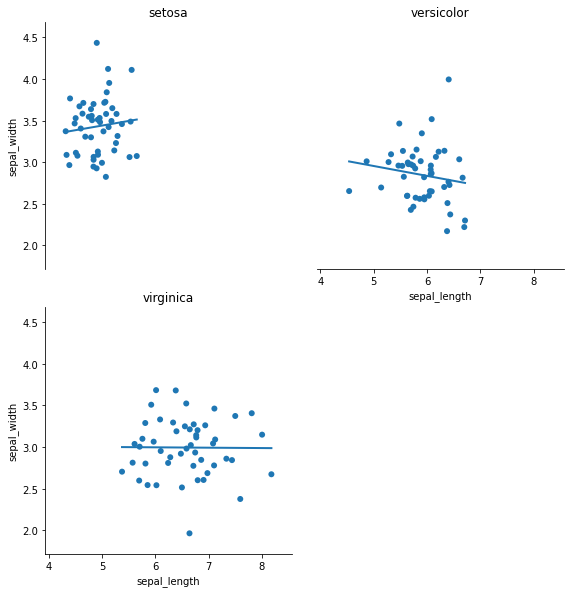
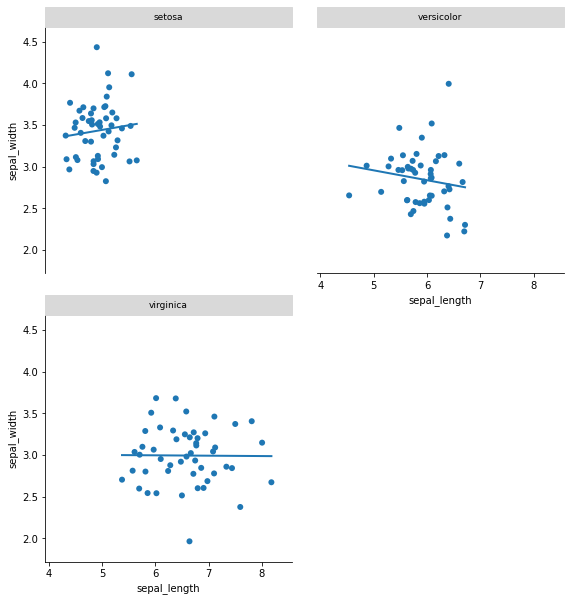
Fix four ggplot2 visual fidelity issues
1. Grid: white major+minor gridlines on beige via matplotlib hook
   (Bokeh gridstyle doesn't transfer to matplotlib backend)
2. Italic: axis labels now non-italic via _fix_label_style hook
3. facet_grid: column strips at top, row strips on right (was
   per-panel "row: val | col: val" titles)
4. Strips: full-width gray rectangles, not text highlights

All hooks are cross-backend (matplotlib + Bokeh). Theme hooks
accumulate on ggplot._hooks and are merged at render time so
they don't clobber each other.

https://claude.ai/code/session_01SmF4TLhsWWy5K2WYChHN7t

diff --git a/ggviews/facets.py b/ggviews/facets.py
@@ -13,6 +13,87 @@ import warnings
 import re
 
 
+# ---------------------------------------------------------------------------
+# Cross-backend hook helpers
+# ---------------------------------------------------------------------------
+
+def _fix_label_style(plot, element):
+    """Hook: set axis labels to non-italic (ggplot2 default) in both backends."""
+    # Matplotlib
+    ax = getattr(plot, 'handles', {}).get('axis')
+    if ax and hasattr(ax, 'transAxes'):
+        ax.xaxis.label.set_fontstyle('normal')
+        ax.yaxis.label.set_fontstyle('normal')
+        for lbl in ax.get_xticklabels() + ax.get_yticklabels():
+            lbl.set_fontstyle('normal')
+        return
+    # Bokeh: labels are normal style by default — nothing to do.
+
+
+def _make_strip_top(label_text):
+    """Return a hook that draws a ggplot2-style column strip at the top."""
+    def hook(plot, element):
+        # --- Matplotlib ---
+        ax = getattr(plot, 'handles', {}).get('axis')
+        if ax and hasattr(ax, 'transAxes'):
+            import matplotlib.patches as mpatches
+            rect = mpatches.FancyBboxPatch(
+                (0, 1.0), 1.0, 0.08, transform=ax.transAxes,
+                facecolor='#D9D9D9', edgecolor='#D9D9D9',
+                clip_on=False, zorder=10, boxstyle='square,pad=0',
+            )
+            ax.add_patch(rect)
+            ax.text(
+                0.5, 1.04, str(label_text), transform=ax.transAxes,
+                ha='center', va='center', fontsize=9,
+                fontweight='normal', fontstyle='normal', zorder=11,
+            )
+            return
+        # --- Bokeh ---
+        fig = getattr(plot, 'state', None)
+        if fig and hasattr(fig, 'title') and fig.title:
+            fig.title.text = str(label_text)
+            fig.title.background_fill_color = '#D9D9D9'
+            fig.title.background_fill_alpha = 1.0
+            fig.title.text_font_size = '10pt'
+            fig.title.text_font_style = 'normal'
+            fig.title.align = 'center'
+    return hook
+
+
+def _make_strip_right(label_text):
+    """Return a hook that draws a ggplot2-style row strip on the right."""
+    def hook(plot, element):
+        # --- Matplotlib ---
+        ax = getattr(plot, 'handles', {}).get('axis')
+        if ax and hasattr(ax, 'transAxes'):
+            import matplotlib.patches as mpatches
+            rect = mpatches.FancyBboxPatch(
+                (1.0, 0), 0.08, 1.0, transform=ax.transAxes,
+                facecolor='#D9D9D9', edgecolor='#D9D9D9',
+                clip_on=False, zorder=10, boxstyle='square,pad=0',
+            )
+            ax.add_patch(rect)
+            ax.text(
+                1.04, 0.5, str(label_text), transform=ax.transAxes,
+                ha='center', va='center', fontsize=9,
+                fontweight='normal', fontstyle='normal', rotation=270,
+                zorder=11,
+            )
+            return
+        # --- Bokeh ---  (append row label to existing title)
+        fig = getattr(plot, 'state', None)
+        if fig and hasattr(fig, 'title'):
+            # For Bokeh there's no native right-strip; we could use an
+            # annotation, but for now we skip (column strip already shown).
+            pass
+    return hook
+
+
+# ---------------------------------------------------------------------------
+# Facet base class
+# ---------------------------------------------------------------------------
+
 class Facet:
     """Base facet class"""
 
@@ -41,49 +122,41 @@ class Facet:
         else:
             return None, formula
 
-    @staticmethod
-    def _strip_hook(plot, element):
-        """Bokeh hook: style the panel title as a ggplot2-style strip label.
+    def _render_facet_panel(self, facet_data, ggplot_obj, hooks=None):
+        """Render a single facet panel.
 
-        Adds a gray background fill to the title text so it resembles
-        the colored strip bars in ggplot2 facets.
-        """
-        fig = plot.state
-        if hasattr(fig, 'title') and fig.title:
-            fig.title.background_fill_color = '#E5E5E5'
-            fig.title.background_fill_alpha = 1.0
-            fig.title.text_font_size = '10pt'
-            fig.title.text_font_style = 'normal'  # ggplot2 strips are not bold
-            fig.title.align = 'center'
-            # Add a little padding via border
-            if hasattr(fig.title, 'border_line_color'):
-                fig.title.border_line_color = '#CCCCCC'
-                fig.title.border_line_alpha = 0.5
-
-    def _render_facet_panel(self, facet_data, ggplot_obj, title):
-        """Render a single facet panel with the given subset of data.
-
-        Creates a copy of the ggplot object with filtered data and no faceting
-        to avoid recursion, then renders it and applies the facet title
-        styled as a ggplot2-style strip label.
+        Parameters
+        ----------
+        facet_data : DataFrame
+            Subset of data for this panel.
+        ggplot_obj : ggplot
+            Parent ggplot object (layers, aes, theme, etc.).
+        hooks : list[callable] or None
+            Hooks to apply to the rendered panel (strip labels, style fixes).
         """
         facet_ggplot = ggplot_obj._copy()
         facet_ggplot.data = facet_data
         facet_ggplot.facets = None  # prevent recursion
+        facet_ggplot._hooks = []   # clear — we merge manually below
 
         panel = facet_ggplot._render()
         if panel is not None:
-            # Reduce panel size for multi-panel layouts and add strip hook
+            # Merge theme hooks (e.g. essi grid) + facet hooks (strips, italic fix)
+            # into one list so a single .opts(hooks=...) call doesn't clobber anything.
+            all_hooks = list(getattr(ggplot_obj, '_hooks', [])) + (hooks or [])
+            opts_kw = {'title': '', 'hooks': all_hooks}
             try:
-                panel = panel.opts(
-                    title=str(title), width=350, height=280,
-                    hooks=[self._strip_hook],
-                )
+                opts_kw['width'] = 350
+                opts_kw['height'] = 280
+            except Exception:
+                pass
+            try:
+                panel = panel.opts(**opts_kw)
             except Exception:
                 try:
-                    panel = panel.opts(title=str(title), hooks=[self._strip_hook])
+                    panel = panel.opts(title='')
                 except Exception:
-                    panel = panel.opts(title=str(title))
+                    pass
         return panel
 
     def _apply(self, plot, ggplot_obj):
@@ -173,7 +246,7 @@ class facet_wrap(Facet):
             else:
                 ncol = int(np.ceil(np.sqrt(n_facets)))
 
-            # Render each panel
+            # Render each panel with a top strip label
             panels = []
             for facet_val in unique_facets:
                 facet_data = work_data[work_data[facet_col] == facet_val].copy()
@@ -184,7 +257,8 @@ class facet_wrap(Facet):
                 if facet_data.empty:
                     continue
 
-                panel = self._render_facet_panel(facet_data, ggplot_obj, facet_val)
+                hooks = [_fix_label_style, _make_strip_top(facet_val)]
+                panel = self._render_facet_panel(facet_data, ggplot_obj, hooks=hooks)
                 if panel is not None:
                     panels.append(panel)
 
@@ -195,10 +269,7 @@ class facet_wrap(Facet):
             nrow_actual = int(np.ceil(n_panels / ncol))
 
             # Suppress redundant axis labels (ggplot2 style):
-            # - Only leftmost panels keep the y-axis label + ticks
-            # - Only bottom-row panels keep the x-axis label + ticks
-            # Use yaxis=None / xaxis=None (not 'bare') so that tick labels
-            # are fully removed in the matplotlib backend used for PNG export.
+            # Only leftmost panels keep y-axis; only bottom panels keep x-axis.
             for idx, panel in enumerate(panels):
                 row_idx = idx // ncol
                 col_idx = idx % ncol
@@ -217,10 +288,7 @@ class facet_wrap(Facet):
                     except Exception:
                         pass
 
-            # Build a flat Layout and set the column count once
             layout = hv.Layout(panels).cols(ncol)
-            # Suppress HoloViews "A","B","C" subplot labels (not ggplot2 style)
-            # and tighten inter-panel spacing (hspace/vspace for matplotlib).
             try:
                 layout = layout.opts(
                     sublabel_format='', hspace=0.1, vspace=0.1,
@@ -241,7 +309,9 @@ class facet_grid(Facet):
     """Grid of facets based on row and column variables
 
     Creates a grid of subplots where rows correspond to one variable
-    and columns to another variable.
+    and columns to another variable.  Strip labels follow ggplot2
+    conventions: column labels at the top of each column, row labels
+    on the right of each row.
 
     Args:
         facets: Faceting formula like 'row_var ~ col_var' or '. ~ col_var' or 'row_var ~ .'
@@ -282,13 +352,13 @@ class facet_grid(Facet):
             row_vals = sorted(data[self.row_var].unique()) if has_row_var else [None]
             col_vals = sorted(data[self.col_var].unique()) if has_col_var else [None]
             ncol = len(col_vals)
+            nrow = len(row_vals)
 
-            # Render panels in row-major order so that hv.Layout.cols(ncol)
-            # produces the correct visual grid.
+            # Render panels in row-major order.
             panels = []
 
-            for row_val in row_vals:
-                for col_val in col_vals:
+            for row_i, row_val in enumerate(row_vals):
+                for col_i, col_val in enumerate(col_vals):
                     cell_data = data.copy()
 
                     if has_row_var and row_val is not None:
@@ -299,31 +369,30 @@ class facet_grid(Facet):
                     if cell_data.empty:
                         continue
 
-                    # Build title
-                    title_parts = []
-                    if has_row_var and row_val is not None:
-                        title_parts.append(f"{self.row_var}: {row_val}")
-                    if has_col_var and col_val is not None:
-                        title_parts.append(f"{self.col_var}: {col_val}")
-                    title = " | ".join(title_parts) if title_parts else "All"
+                    # Build hooks for this cell position
+                    hooks = [_fix_label_style]
+                    # Column strip at top (first row only)
+                    if row_i == 0 and has_col_var and col_val is not None:
+                        hooks.append(_make_strip_top(col_val))
+                    # Row strip on right (last column only)
+                    if col_i == ncol - 1 and has_row_var and row_val is not None:
+                        hooks.append(_make_strip_right(row_val))
 
-                    panel = self._render_facet_panel(cell_data, ggplot_obj, title)
+                    panel = self._render_facet_panel(
+                        cell_data, ggplot_obj, hooks=hooks,
+                    )
                     if panel is not None:
                         panels.append(panel)
 
             if not panels:
                 return plot
 
-            nrow_actual = len(row_vals)
-
-            # Suppress redundant axis labels (ggplot2 style):
-            # - Only leftmost panels keep y-axis label + ticks
-            # - Only bottom-row panels keep x-axis label + ticks
+            # Suppress redundant axes
             for idx, panel in enumerate(panels):
                 row_idx = idx // ncol
                 col_idx = idx % ncol
                 is_left = (col_idx == 0)
-                is_bottom = (row_idx == nrow_actual - 1)
+                is_bottom = (row_idx == nrow - 1)
                 strip_opts = {}
                 if not is_left:
                     strip_opts['ylabel'] = ''
@@ -338,8 +407,6 @@ class facet_grid(Facet):
                         pass
 
             layout = hv.Layout(panels).cols(ncol)
-            # Suppress HoloViews "A","B","C" subplot labels (not ggplot2 style)
-            # and tighten inter-panel spacing (hspace/vspace for matplotlib).
             try:
                 layout = layout.opts(
                     sublabel_format='', hspace=0.1, vspace=0.1,

diff --git a/ggviews/themes.py b/ggviews/themes.py
@@ -289,10 +289,10 @@ class theme_essi(Theme):
     """Essi theme — modern, warm, colorblind-friendly.
 
     * **Background**: warm beige (#EFEBE5), same luminance as ggplot2's default gray.
-    * **Grid**: subtle warm gray, low alpha.
+    * **Grid**: white major + minor gridlines (ggplot2 default style).
     * **Palette**: Krzywinski / BCGSC 8-color colorblind-safe palette,
       expandable to any number of colors via ``palette_essi(n)``.
-    * **Typography**: clean, no bold frames.
+    * **Typography**: clean, non-italic, no bold frames.
 
     Examples
     --------
@@ -326,7 +326,24 @@ class theme_essi(Theme):
         """Add theme and immediately swap the color palette."""
         new_plot = super()._add_to_ggplot(ggplot_obj)
         new_plot.default_colors = palette_essi(max(len(new_plot.default_colors), 8))
+        new_plot._hooks.append(self._mpl_grid_hook)
         return new_plot
+
+    @staticmethod
+    def _mpl_grid_hook(plot, element):
+        """Matplotlib hook: beige background + white major/minor grid."""
+        ax = getattr(plot, 'handles', {}).get('axis')
+        if not ax or not hasattr(ax, 'transAxes'):
+            return
+        ax.set_facecolor('#EFEBE5')
+        ax.grid(True, which='major', color='white', linewidth=1.4, alpha=1.0)
+        ax.minorticks_on()
+        ax.grid(True, which='minor', color='white', linewidth=0.6, alpha=0.7)
+        # Non-italic axis labels
+        ax.xaxis.label.set_fontstyle('normal')
+        ax.yaxis.label.set_fontstyle('normal')
+        for lbl in ax.get_xticklabels() + ax.get_yticklabels():
+            lbl.set_fontstyle('normal')
 
     def _apply(self, plot, ggplot_obj):
         """Apply the Essi theme styling."""

diff --git a/ggviews/core.py b/ggviews/core.py
@@ -95,6 +95,7 @@ class ggplot:
         self.highlight = None     # gghighlight support
         self.labels = {}
         self.limits = {}
+        self._hooks = []          # cross-backend rendering hooks
         
         # Default theme colors (ggplot2-like)
         self.default_colors = [
@@ -134,6 +135,7 @@ class ggplot:
         new_plot.highlight = self.highlight        # Copy highlight
         new_plot.labels = self.labels.copy()
         new_plot.limits = self.limits.copy()
+        new_plot._hooks = self._hooks.copy()
         return new_plot
     
     def _get_data_for_layer(self, layer_data=None):
@@ -273,7 +275,19 @@ class ggplot:
         # Apply facets
         if self.facets:
             final_plot = self.facets._apply(final_plot, self)
-        
+
+        # Collect and apply rendering hooks.
+        # Faceted plots get per-panel hooks via facets.py; non-faceted plots
+        # need the italic fix applied here.  Theme hooks (e.g. theme_essi
+        # grid styling) are accumulated on self._hooks during composition.
+        if not self.facets:
+            try:
+                from .facets import _fix_label_style
+                all_hooks = list(self._hooks) + [_fix_label_style]
+                final_plot = final_plot.opts(hooks=all_hooks)
+            except Exception:
+                pass
+
         return final_plot
     
     def show(self):
